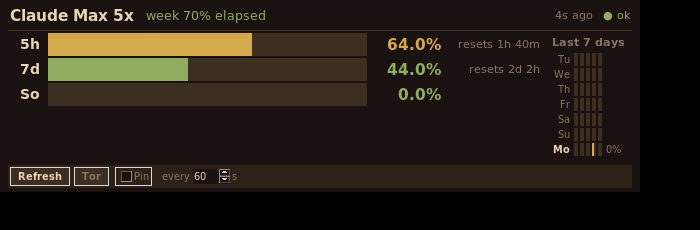
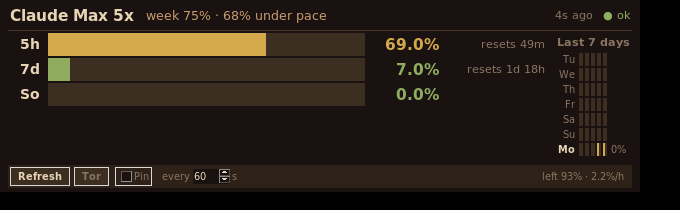
feat: weekly pace tracker (are you ahead or behind on your 7-day budget?)
Compares how much of the 7-day budget you've used against how much of the
week has elapsed, so you can tell at a glance whether you're over pace (on
track to run out early) or under pace (budget to spare). Surfaces:
- header: week elapsed % + an on/under/over-pace verdict
- control bar: budget left % + per-hour rate to use it all by reset
- `claude-usage status`: a Week/Pace/Budget breakdown incl. used÷elapsed burn rate

Also compacts the bar's reset countdown to two units so it no longer overlaps
the percentage, and refreshes the README + screenshot to document the feature.

Changed region(s): [[0.0, 0.0, 0.9574, 0.9143]]

diff --git a/claude_usage.py b/claude_usage.py
@@ -482,6 +482,26 @@ def fmt_time(ts):
     return " ".join(parts)
 
 
+def fmt_time_short(ts):
+    """Like fmt_time but at most two units, compact for the bar's reset field."""
+    if ts is None:
+        return "?"
+    rem = max(0, ts - time.time())
+    if rem == 0:
+        return "now"
+    d, rem = divmod(int(rem), 86400)
+    h, rem = divmod(rem, 3600)
+    m = rem // 60
+    parts = []
+    if d:
+        parts.append(f"{d}d")
+    if h:
+        parts.append(f"{h}h")
+    if m and len(parts) < 2:
+        parts.append(f"{m}m")
+    return " ".join(parts[:2]) if parts else "0m"
+
+
 def bar_color(v):
     if v is None:
         return DIM
@@ -490,6 +510,50 @@ def bar_color(v):
     if v < 0.80:
         return YELLOW
     return RED
+
+
+def compute_pace(util_7d, reset_7d, now=None):
+    """Weekly pacing: how your 7-day usage compares to how much of the week has
+    elapsed, so you can see whether you're on track to spend the whole budget,
+    burning it too fast, or leaving it on the table.
+
+    Returns a dict (or None if there isn't enough data):
+      elapsed      fraction of the 7-day window gone (0..1)
+      used         fraction of the weekly budget used (0..1)
+      left         fraction still available (0..1)
+      delta        used - elapsed  (>0 = ahead / over-using, <0 = behind / surplus)
+      ratio        used / elapsed  (burn rate vs. the clock; 1.0 = exactly on pace)
+      remaining_h  hours until the weekly reset
+      per_hour     budget you can spend each remaining hour to finish at 100% (0..1)
+    """
+    if util_7d is None or not reset_7d:
+        return None
+    now = time.time() if now is None else now
+    remaining_s = max(0.0, reset_7d - now)
+    elapsed = max(0.0, min(1.0, 1.0 - remaining_s / (7 * 86400)))
+    used = max(0.0, min(1.0, util_7d))
+    left = max(0.0, 1.0 - used)
+    remaining_h = remaining_s / 3600.0
+    return {
+        "elapsed": elapsed,
+        "used": used,
+        "left": left,
+        "delta": used - elapsed,
+        "ratio": (used / elapsed) if elapsed > 0 else None,
+        "remaining_h": remaining_h,
+        "per_hour": (left / remaining_h) if remaining_h > 0 else None,
+    }
+
+
+def fmt_pace(pace):
+    """(phrase, color) summarizing pace, from compute_pace() output."""
+    delta = pace["delta"]
+    if abs(delta) < 0.03:
+        return "on pace", GREEN
+    pct = abs(delta) * 100
+    if delta < 0:
+        return f"{pct:.0f}% under pace", ACCENT          # surplus, room to use more
+    return f"{pct:.0f}% over pace", (RED if delta > 0.15 else YELLOW)
 
 
 # ---------------------------------------------------------------------------
@@ -601,6 +665,15 @@ def _print_usage_block(creds, data):
         bar = "█" * filled + "░" * (20 - filled)
         resets = f"resets in {fmt_time(reset)}" if reset else ""
         print(f"  {name:<13} {bar} {pct:5.1f}%   {resets}")
+    pace = compute_pace(data.get("7d_util"), data.get("7d_reset"))
+    if pace:
+        ratio = f" · {pace['ratio']:.2f}x burn rate" if pace["ratio"] else ""
+        print(f"  Week:    {pace['elapsed'] * 100:.0f}% elapsed · "
+              f"{pace['used'] * 100:.0f}% used · {pace['left'] * 100:.0f}% left")
+        print(f"  Pace:    {fmt_pace(pace)[0]}{ratio}")
+        if pace["per_hour"] is not None and pace["remaining_h"] >= 1:
+            print(f"  Budget:  ~{pace['per_hour'] * 100:.1f}%/h to use it all by reset "
+                  f"({pace['remaining_h']:.0f}h left)")
     if data.get("status") == "rejected":
         print("  ⚠ You are currently rate-limited.")
 
@@ -680,7 +753,7 @@ def launch_gui(_args=None):
                                  bg=BG, anchor="e", width=6)
             self._pct.grid(row=0, column=2, sticky="e")
             self._info = tk.Label(self, text="", font=(FONT, 8), fg=DIM, bg=BG,
-                                  anchor="e", width=13)
+                                  anchor="e", width=14)
             self._info.grid(row=0, column=3, sticky="e", padx=(4, 0))
 
         def set(self, util, reset_ts=None, placeholder=None):
@@ -691,7 +764,7 @@ def launch_gui(_args=None):
             else:
                 c = bar_color(util)
                 self._pct.config(text=f"{util * 100:.1f}%", fg=c)
-                self._info.config(text=f"resets {fmt_time(reset_ts)}" if reset_ts else "")
+                self._info.config(text=f"resets {fmt_time_short(reset_ts)}" if reset_ts else "")
                 self._frac, self._color = util, c
             self._draw()
 
@@ -859,6 +932,10 @@ def launch_gui(_args=None):
                        highlightthickness=0, bd=0, command=self._interval_changed
                        ).pack(side=tk.LEFT)
             tk.Label(ctrl, text="s", font=(FONT, 7), fg=DIM, bg=BG_LIGHT).pack(side=tk.LEFT)
+
+            # weekly budget detail (right side): how much is left + per-hour pace
+            self.pace_lbl = tk.Label(ctrl, text="", font=(FONT, 7), fg=DIM, bg=BG_LIGHT)
+            self.pace_lbl.pack(side=tk.RIGHT, padx=(0, 6))
 
             # body fills the middle, after the control bar has claimed the bottom
             body.pack(side=tk.TOP, fill=tk.BOTH, expand=True, padx=pad)
@@ -1078,14 +1155,18 @@ def launch_gui(_args=None):
             self.bar_7d.set(d.get("7d_util"), d.get("7d_reset"))
             if is_max_plan(self.creds):
                 self.bar_sonnet.set(d.get("sonnet_util"), d.get("sonnet_reset"), placeholder="--")
-            reset_ts = d.get("7d_reset")
-            if reset_ts:
-                remaining = max(0, reset_ts - time.time())
-                elapsed = max(0, min(100, (1.0 - remaining / (7 * 86400)) * 100))
-                self.elapsed_lbl.config(text=f"week {elapsed:.0f}% elapsed",
-                                        fg=bar_color(d.get("7d_util")))
+            pace = compute_pace(d.get("7d_util"), d.get("7d_reset"))
+            if pace:
+                phrase, color = fmt_pace(pace)
+                self.elapsed_lbl.config(
+                    text=f"week {pace['elapsed'] * 100:.0f}% · {phrase}", fg=color)
+                detail = f"left {pace['left'] * 100:.0f}%"
+                if pace["per_hour"] is not None and pace["remaining_h"] >= 1:
+                    detail += f" · {pace['per_hour'] * 100:.1f}%/h"
+                self.pace_lbl.config(text=detail)
             else:
                 self.elapsed_lbl.config(text="")
+                self.pace_lbl.config(text="")
 
         def _on_close(self):
             self._closing = True

diff --git a/README.md b/README.md
@@ -47,6 +47,10 @@ you approach a limit.
 - **5h / 7d / Sonnet bars** with green → yellow → red color coding.
 - **Weekly heatmap.** The peak of each 5-hour block for the last 7 days, plus
   each day's contribution to your 7-day window. Builds up the longer you run it.
+- **Weekly pace tracker.** Compares how much of your 7-day budget you've used
+  against how much of the week has elapsed, so you can see at a glance whether
+  you're *over pace* (on track to run out early) or *under pace* (budget to
+  spare). It also shows how much you can spend per hour to use it all by the reset.
 - **Live countdowns** to each window reset.
 - **Resilient polling.** Exponential backoff on `HTTP 429`, instant restore of
   the last reading on restart (so the bars are never blank).
@@ -56,6 +60,29 @@ you approach a limit.
   optional; ignored if Tor isn't installed.
 - **CLI mode.** `claude-usage status` prints your usage to the terminal, handy
   for scripts, prompts, or headless boxes.
+
+## Pacing your weekly budget
+
+The 7-day window is the one that quietly bites. It resets only once a week, so
+it helps to know whether you're spending it evenly. The widget answers that:
+
+- The header shows **how much of the week has elapsed** next to a one-glance
+  verdict: **on pace**, **under pace** (you have surplus), or **over pace**
+  (you'll hit the cap before it resets).
+- The control bar shows **how much budget is left** and a **per-hour figure**,
+  how much you can spend each remaining hour to finish at exactly 100% by reset.
+- `claude-usage status` spells it out in full:
+
+  ```text
+  Week:    75% elapsed · 6% used · 94% left
+  Pace:    69% under pace · 0.08x burn rate
+  Budget:  ~2.2%/h to use it all by reset (42h left)
+  ```
+
+The **burn rate** is just `used ÷ elapsed`: `1.0x` is exactly on pace, below
+`1.0x` means you're spending your weekly budget slower than the clock (room to
+spare), and above `1.0x` means you're burning it faster than the week and will
+run dry early if you keep that pace.
 
 ## Requirements
 